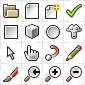
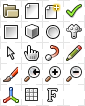
new layers :neckbeard:

diff --git a/assets/libs/editile/editor.js b/assets/libs/editile/editor.js
@@ -62,6 +62,7 @@ Editor.prototype._loadLayers = function (layers, callback) {
       continue
     }
     layer.init(this)
+    layer.on('visibility changed', this.invalidate.bind(this, true))
     this._layers.push(layer)
   }
 
@@ -120,6 +121,7 @@ Editor.prototype._initEditor = function (options) {
 Editor.prototype._initUI = function () {
   this._initToolUI()
   this._initZoomUI()
+  this._initLayerUI()
 }
 
 Editor.prototype._initToolUI = function () {
@@ -167,6 +169,26 @@ Editor.prototype._wrapClick = function (elem, fn) {
     evt.preventDefault()
     fn()
   })
+}
+
+Editor.prototype._initLayerUI = function () {
+  let buttons = document.querySelectorAll('a[data-layer]')
+  for (let button of buttons) {
+    let layerId = button.getAttribute('data-layer')
+    let layer
+    if (!(layer = this.getLayer(layerId))) {
+      throw new Error('unknown layer ID: ' + layerId)
+    }
+    if (layer.isVisible()) {
+      button.classList.add('active')
+    }
+    let self = this
+    button.addEventListener('click', function (evt) {
+      evt.preventDefault()
+      layer.setVisible(!layer.isVisible())
+      button.classList.toggle('active')
+    })
+  }
 }
 
 Editor.prototype._resizeEditor = function (evt) {
@@ -247,7 +269,15 @@ Editor.prototype.render = function () {
 
     for (let i = 0; i < this._layers.length; i++) {
       let layer = this._layers[i]
-      layer.render(ctx, rect, this)
+      if (layer.isVisible()) {
+        if (!layer.isRelative()) {
+          ctx.translate(-x, -y)
+        }
+        layer.render(ctx, rect, this)
+        if (!layer.isRelative()) {
+          ctx.translate(x, y)
+        }
+      }
     }
 
     if (this._tool) {
@@ -298,6 +328,15 @@ Editor.prototype.getTool = function (toolId) {
 
 Editor.prototype.getTools = function () {
   return this._tools
+}
+
+Editor.prototype.getLayer = function (layerId) {
+  for (let layer of this._layers) {
+    if (layer.id === layerId) {
+      return layer
+    }
+  }
+  return false
 }
 
 Editor.prototype.getLayers = function () {

diff --git a/index.html b/index.html
@@ -8,23 +8,36 @@
   <div id="app">
     <aside id="toolbar">
       <div class="toolbar-scroll">
+
         <h3 class="toolbar-title">File:</h3>
         <div class="btns vertical fw">
           <a href="#" class="btn" title="Open World"><i class="icon folder to-left"></i> Open</a>
           <a href="#" class="btn" title="New World"><i class="icon new to-left"></i> New</a>
           <a href="#" class="btn" title="Save World"><i class="icon check to-left"></i> Save</a>
         </div>
+
         <h3 class="toolbar-title">Tool:</h3>
         <div class="btns justified fw">
           <a href="#" class="btn toggle" title="Hand" data-tool="hand"><i class="icon hand"></i></a>
           <a href="#" class="btn toggle" title="Brush" data-tool="brush"><i class="icon brush"></i></a>
         </div>
+
+        <h3 class="toolbar-title">Layers:</h3>
+        <div class="btns justified fw">
+          <a class="btn toggle" title="Stats" data-layer="stats"><i class="icon font"></i></a>
+          <a class="btn toggle" title="Grid" data-layer="grid"><i class="icon grid"></i></a>
+          <a class="btn toggle" title="Axes" data-layer="axes"><i class="icon axes"></i></a>
+          <a class="btn toggle" title="Tiles"><i class="icon plane"></i></a>
+          <a class="btn toggle" title="Objects"><i class="icon cube"></i></a>
+        </div>
+
         <h3 class="toolbar-title">Zoom:</h3>
         <div class="btns justified fw">
           <a href="#" class="btn" title="Reset Zoom" data-zoom="reset"><i class="icon reset-zoom"></i></a>
           <a href="#" class="btn" title="Zoom Out" data-zoom="out"><i class="icon zoom-out"></i></a>
           <a href="#" class="btn" title="Zoom In" data-zoom="in"><i class="icon zoom-in"></i></a>
         </div>
+
       </div>
     </aside>
     <main id="content">

diff --git a/assets/libs/editile/tools/brush.js b/assets/libs/editile/tools/brush.js
@@ -10,6 +10,13 @@ function Brush () {
 Brush.prototype.id = 'brush'
 Brush.prototype.label = 'Brush'
 
+Brush.prototype._addPoint = function (point) {
+  if (this._points.length >= 20) {
+    this._points.shift()
+  }
+  this._points.push(point)
+}
+
 Brush.prototype.activate = function (editor) {
   let canvas = editor.getCanvas()
   canvas.style.cursor = 'crosshair'
@@ -41,8 +48,10 @@ Brush.prototype.mouseMove = function (evt, editor) {
   if (!this._dragging || !this._points) {
     return
   }
+
   let point = editor.transformInput(evt)
-  this._points.push(point)
+  this._addPoint(point)
+
   editor.invalidate(true)
 }
 
@@ -50,7 +59,7 @@ Brush.prototype.render = function (ctx) {
   ctx.strokeStyle = 'rgba(255, 255, 255, .5)'
   ctx.lineJoin = 'round'
   ctx.lineCap = 'round'
-  ctx.lineWidth = 10
+  ctx.lineWidth = 5
 
   ctx.beginPath()
 

diff --git a/assets/libs/editile/layers/layer.js b/assets/libs/editile/layers/layer.js
@@ -4,6 +4,7 @@ const EventEmitter = require('events').EventEmitter
 function Layer () {
   EventEmitter.call(this)
   this._visible = true
+  this._relative = true
 }
 
 Layer.prototype.id = undefined
@@ -18,13 +19,21 @@ Layer.prototype.render = function (ctx, rect, editor) {
   throw new Error('Layer::render not yet implemented')
 }
 
-Layer.prototype.getVisible = function () {
+Layer.prototype.isVisible = function () {
   return this._visible
 }
 
 Layer.prototype.setVisible = function (newValue) {
   this._visible = newValue
-  this.emit('update')
+  this.emit('visibility changed')
+}
+
+Layer.prototype.isRelative = function () {
+  return this._relative
+}
+
+Layer.prototype.setRelative = function (newValue) {
+  this._relative = newValue
 }
 
 util.inherits(Layer, EventEmitter)

diff --git a/assets/libs/editile/layers/stats.js b/assets/libs/editile/layers/stats.js
@@ -1,0 +1,32 @@
+const util = require('util')
+const Layer = require('./layer').Layer
+const Tile = require('../game/tile').Tile
+
+function Stats () {
+  Layer.call(this)
+  this.setRelative(false)
+}
+
+Stats.prototype.id = 'stats'
+Stats.prototype.label = 'Stats'
+Stats.prototype.zIndex = 999
+
+Stats.prototype.init = function (editor) {
+}
+
+Stats.prototype.render = function (ctx, rect, editor) {
+  let world
+  if ((world = editor.getWorld()) === null) {
+    return
+  }
+
+  ctx.font = '16px Open Sans'
+  ctx.fillStyle = '#4a4a4a'
+
+  let str = world.getWidth() + 'x' + world.getHeight()
+  ctx.fillText(str, 8, 22)
+}
+
+util.inherits(Stats, Layer)
+
+exports.Stats = Stats

diff --git a/assets/css/app.css b/assets/css/app.css
@@ -77,7 +77,7 @@ h3.toolbar-title {
   height: 16px;
   background-image: url(../images/icons.png);
   background-repeat: none;
-  background-size: 85px 85px; }
+  background-size: 85px 106px; }
   @media (min-device-pixel-ratio: 1.25), (min-resolution: 120dpi) {
     .icon {
       background-image: url(../images/icons@2x.png); } }
@@ -113,6 +113,12 @@ h3.toolbar-title {
     background-position: -45px -66px; }
   .icon.zoom-out {
     background-position: -66px -66px; }
+  .icon.axes {
+    background-position: -3px -87px; }
+  .icon.grid {
+    background-position: -24px -87px; }
+  .icon.font {
+    background-position: -45px -87px; }
 
 .btn {
   display: inline-block;

diff --git a/src/sass/_variables.scss b/src/sass/_variables.scss
@@ -16,14 +16,16 @@ $toggle-background-color-selected: #5680C2;
 $icon-size: 16px;
 $icon-image: url(../images/icons.png);
 $icon-image-hdpi: url(../images/icons@2x.png);
-$icon-image-size: 85px;
+$icon-image-width: 85px;
+$icon-image-height: 106px;
 $icon-offset: 3px;
 $icon-margin: 5px;
 $icons: (
   folder, file, new, check,
   plane, cube, circle, monkey,
   cursor, hand, eraser, pencil,
-  brush, reset-zoom, zoom-in, zoom-out
+  brush, reset-zoom, zoom-in, zoom-out,
+  axes, grid, font
 );
 
 /* GENERAL */

diff --git a/assets/main.js b/assets/main.js
@@ -11,6 +11,7 @@ editor.init({
     new editile.layers.Grid(),
     new editile.layers.Axes(),
     new editile.layers.Tiles(),
+    new editile.layers.Stats()
   ],
   sprites: [
     new editile.Sprite(0, 'assets/images/tiles.png', 4, 4)
@@ -18,7 +19,7 @@ editor.init({
 })
 
 editor.on('ready', function () {
-  this.setWorld(new editile.World())
+  this.setWorld(new editile.World(16, 16))
 })
 
 window.editor = editor

diff --git a/assets/libs/editile/game/world.js b/assets/libs/editile/game/world.js
@@ -38,6 +38,10 @@ World.prototype.getScreenHeight = function () {
   return this._height * Tile.HEIGHT
 }
 
+World.prototype.toString = function () {
+  return 'World{width=' + this._width + ', height=' + this._height + '}'
+}
+
 util.inherits(World, EventEmitter)
 
 exports.World = World

diff --git a/assets/libs/editile/layers/axes.js b/assets/libs/editile/layers/axes.js
@@ -2,8 +2,6 @@ const util = require('util')
 const Layer = require('./layer').Layer
 const Tile = require('../game/tile').Tile
 
-const sprites = require('../game/sprite').sprites
-
 function Axes () {
   Layer.call(this)
   this.on('update', this.update.bind(this))

diff --git a/src/sass/_icons.scss b/src/sass/_icons.scss
@@ -6,7 +6,7 @@
   height: $icon-size;
   background-image: $icon-image;
   background-repeat: none;
-  background-size: $icon-image-size $icon-image-size;
+  background-size: $icon-image-width $icon-image-height;
 
   @media
   (min-device-pixel-ratio: 1.25),

diff --git a/assets/libs/editile/layers.js b/assets/libs/editile/layers.js
@@ -3,3 +3,4 @@ const layers = exports
 layers.Grid = require('./layers/grid').Grid
 layers.Axes = require('./layers/axes').Axes
 layers.Tiles = require('./layers/tiles').Tiles
+layers.Stats = require('./layers/stats').Stats
